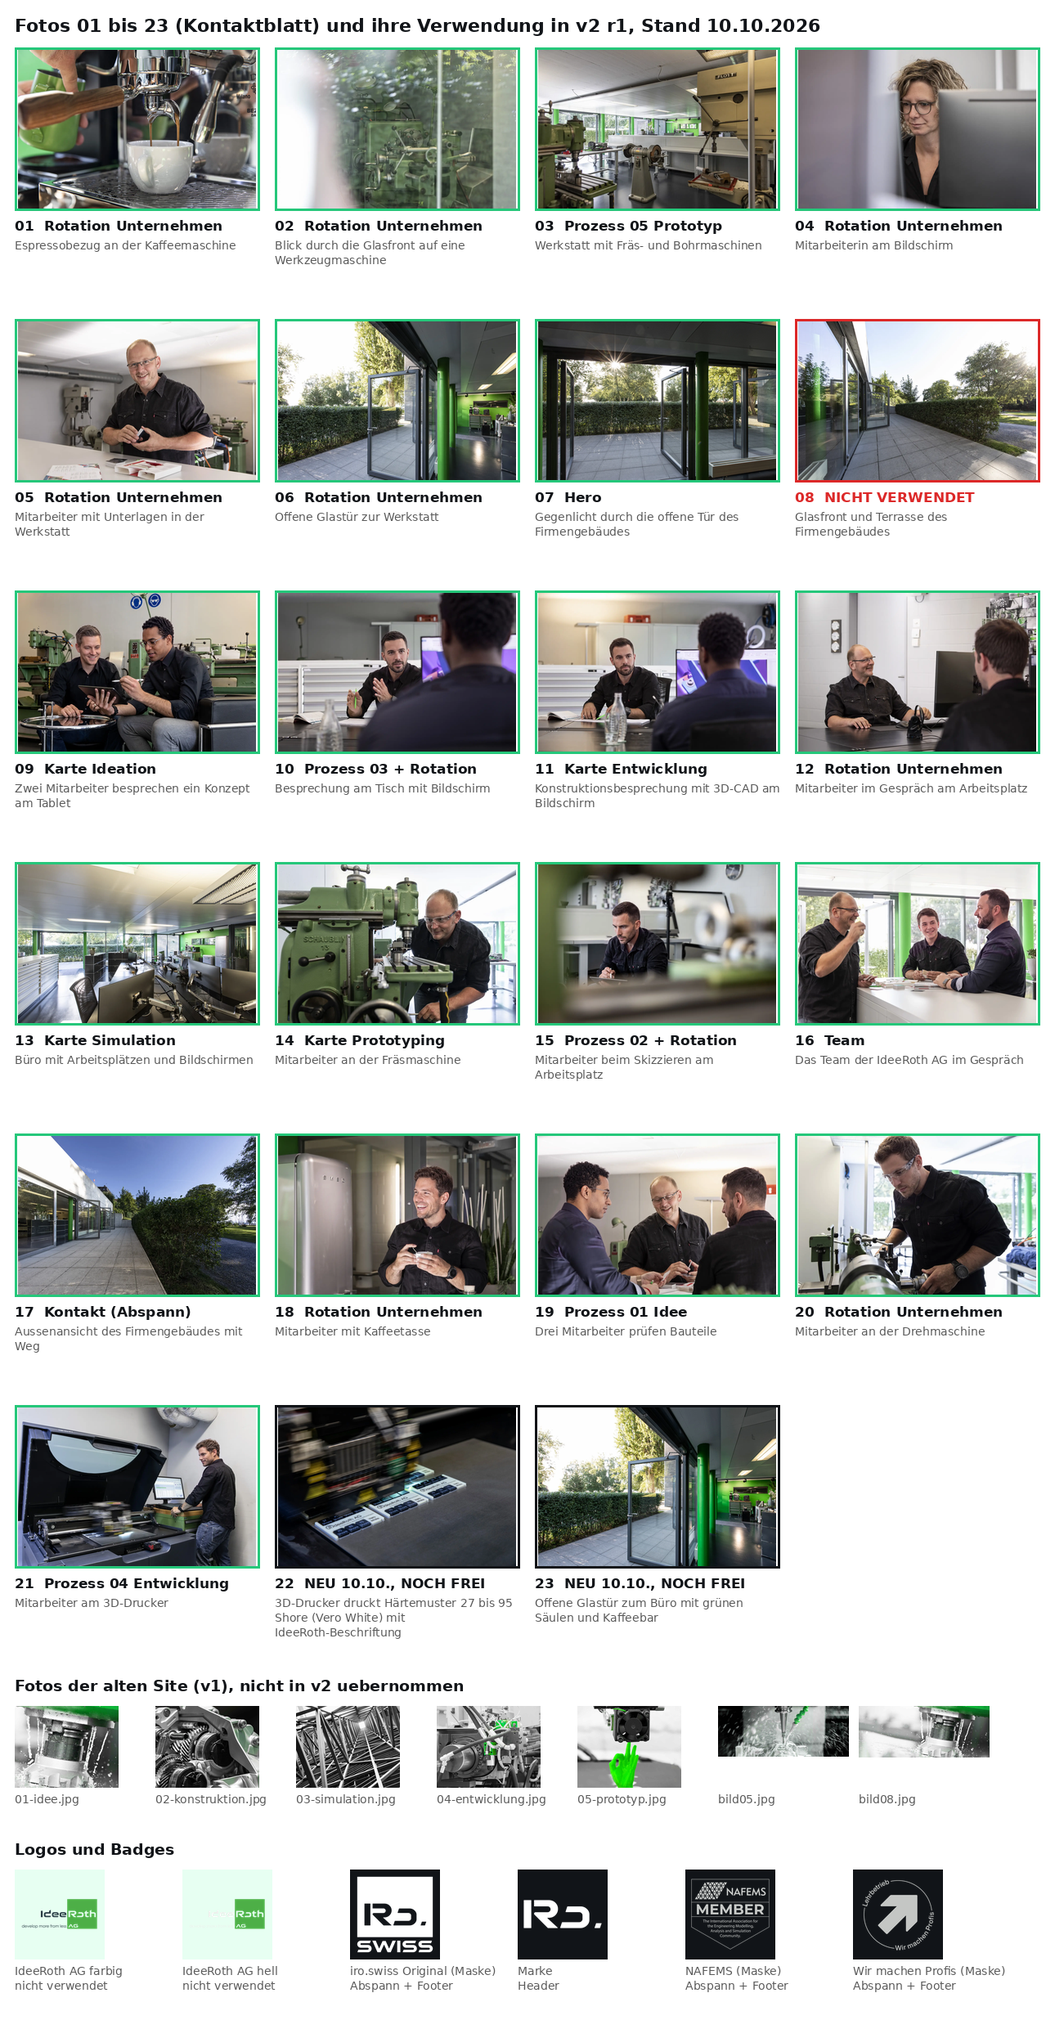
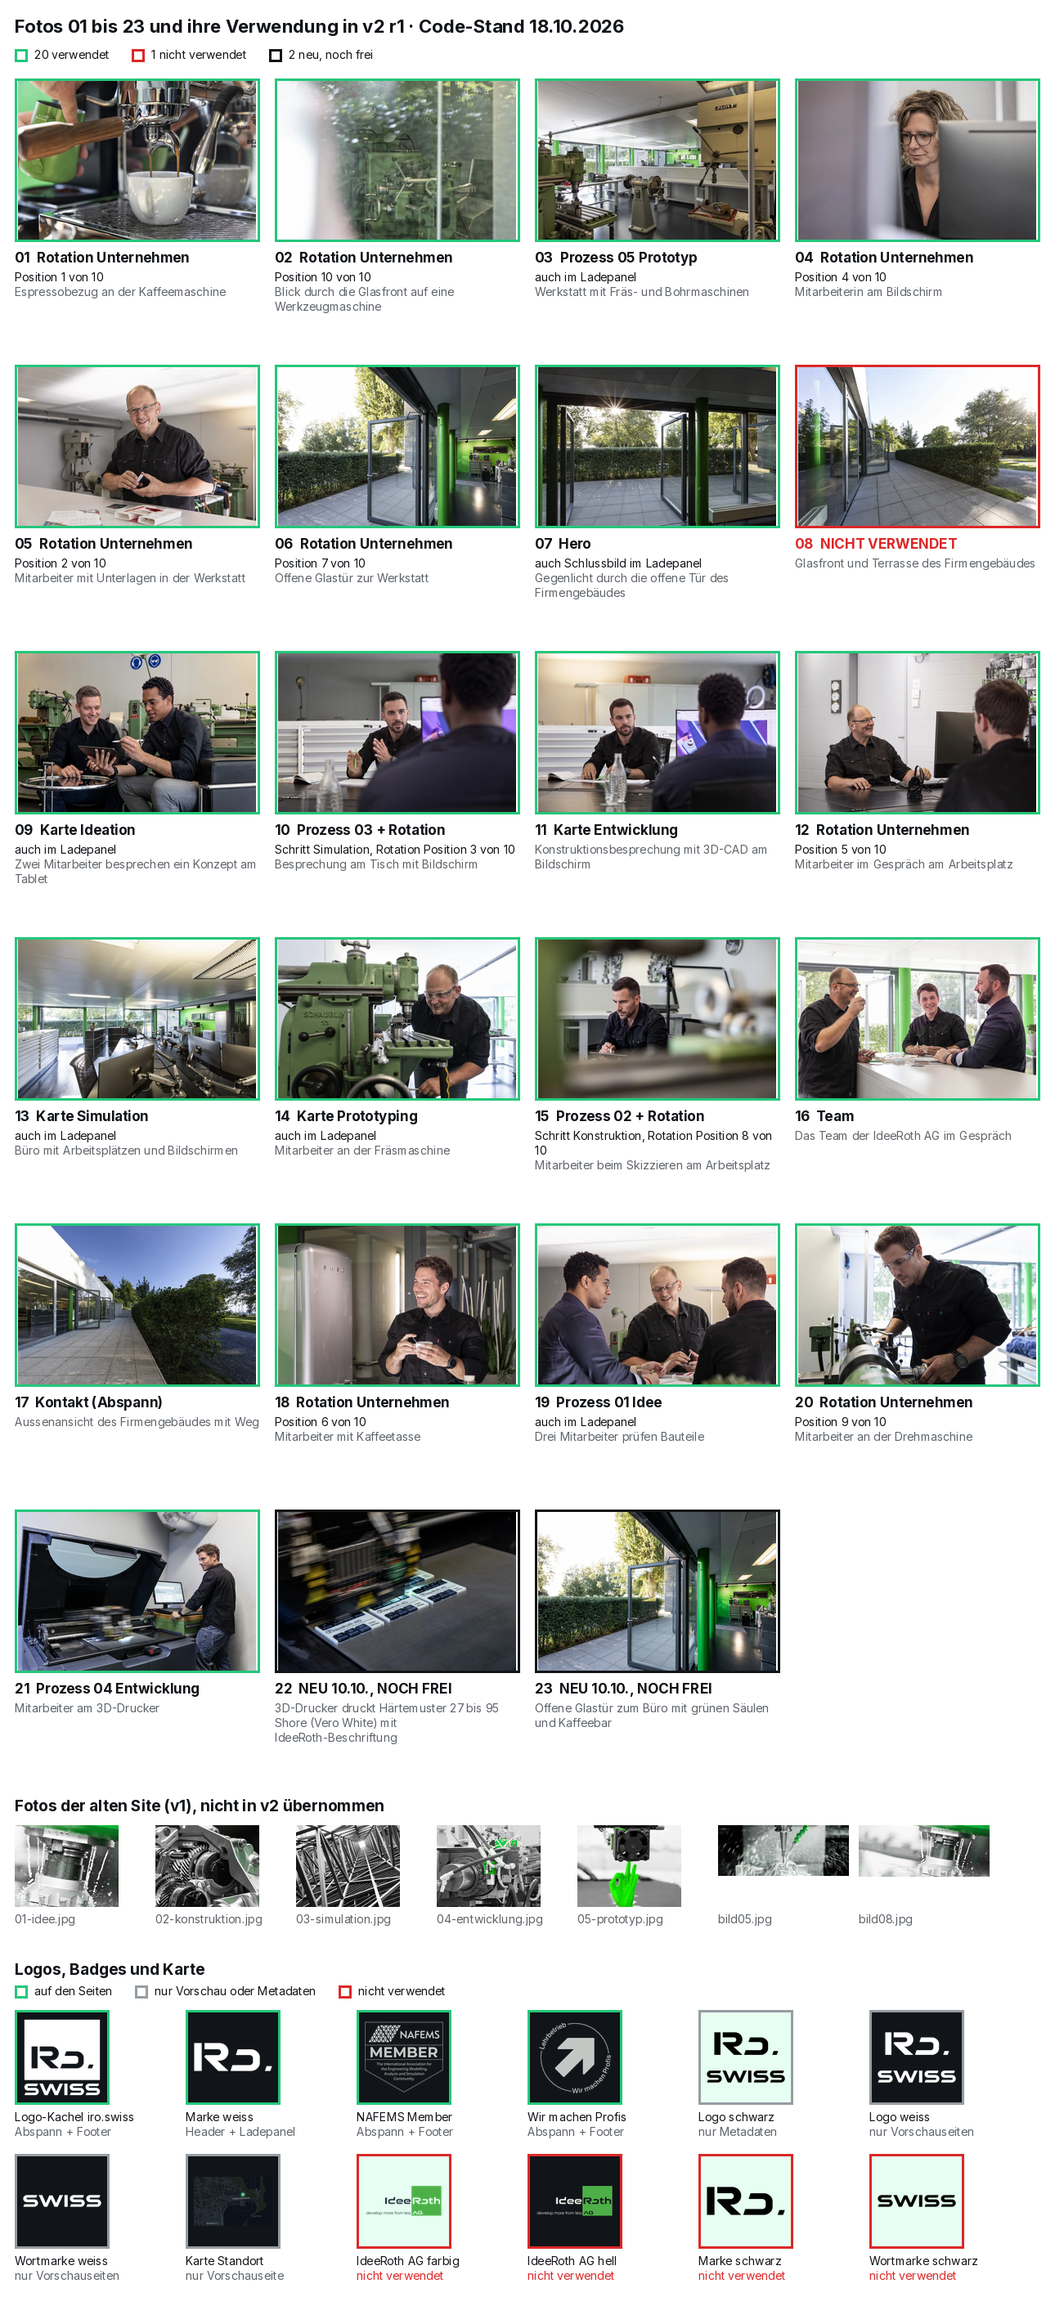
Bilduebersicht liest die Verwendung aus r1/index.html, Blatt neu erzeugt
- bilduebersicht.py: Rollen der Fotos (Hero, Ladepanel, Rotation mit Position, Karten, Prozessschritte, Team,
  Kontakt) kommen aus dem Markup statt aus einer festen Liste; das Blatt kann nicht mehr veralten
- Hinweiszeile je Foto (Position in der Rotation, zweite Verwendung im Ladepanel), Legende mit Zaehlung
- Logo-Teil vollstaendig: alle zwoelf uebrigen Bilddateien mit Zustand (auf den Seiten, nur Vorschau oder
  Metadaten, nicht verwendet), gegen Markup und CSS geprueft
- Schrift Inter aus dem Vorlagen-Paket, Ersatz DejaVu
- bilduebersicht.png neu (Code-Stand 18.10.2026): 20 verwendet, 08 nicht verwendet, 22 und 23 noch frei

Claude-Session: https://claude.ai/code/session_01SNQpCPUPKnTCeqsKMER1Gk

diff --git a/_handover/tools/bilduebersicht.py b/_handover/tools/bilduebersicht.py
@@ -1,101 +1,238 @@
-# Erzeugt die Bilduebersicht (Kontaktblatt) aller Fotos des v2-Fundus mit Verwendung in r1, plus v1-Fotos und Logos.
-import os, glob
+# Erzeugt die Bilduebersicht (Kontaktblatt) aller Fotos des v2-Fundus mit ihrer Verwendung in r1, plus v1-Fotos und Logos.
+# Die Verwendung wird aus r1/index.html GELESEN (Hero, Ladepanel, Rotation Unternehmen, Kompetenzkarten, Prozess, Team,
+# Kontakt) und kann darum nicht veralten. Fest hinterlegt sind nur die Beschreibungen der Fotos ohne Alt-Text im Code.
+# Aufruf: python3 _handover/tools/bilduebersicht.py   (schreibt _handover/bilduebersicht.png, gibt die Zuordnung aus)
+import os, re, glob, subprocess, datetime
+from html.parser import HTMLParser
 from PIL import Image, ImageDraw, ImageFont
+
 HERE = os.path.dirname(os.path.abspath(__file__))
 REPO = os.path.abspath(os.path.join(HERE, '..', '..')) + '/'
 V1IMG = os.path.join(HERE, 'v1img', '')   # Fotos der Live-Site v1 (Kopie aus assets/img/services und gallery)
 V2 = REPO + 'r1/assets/img/v2/'
-PHOTOS = [
-  ('01', 'Rotation Unternehmen', 'Espressobezug an der Kaffeemaschine', 'used'),
-  ('02', 'Rotation Unternehmen', 'Blick durch die Glasfront auf eine Werkzeugmaschine', 'used'),
-  ('03', 'Prozess 05 Prototyp', 'Werkstatt mit Fräs- und Bohrmaschinen', 'used'),
-  ('04', 'Rotation Unternehmen', 'Mitarbeiterin am Bildschirm', 'used'),
-  ('05', 'Rotation Unternehmen', 'Mitarbeiter mit Unterlagen in der Werkstatt', 'used'),
-  ('06', 'Rotation Unternehmen', 'Offene Glastür zur Werkstatt', 'used'),
-  ('07', 'Hero', 'Gegenlicht durch die offene Tür des Firmengebäudes', 'used'),
-  ('08', 'NICHT VERWENDET', 'Glasfront und Terrasse des Firmengebäudes', 'unused'),
-  ('09', 'Karte Ideation', 'Zwei Mitarbeiter besprechen ein Konzept am Tablet', 'used'),
-  ('10', 'Prozess 03 + Rotation', 'Besprechung am Tisch mit Bildschirm', 'used'),
-  ('11', 'Karte Entwicklung', 'Konstruktionsbesprechung mit 3D-CAD am Bildschirm', 'used'),
-  ('12', 'Rotation Unternehmen', 'Mitarbeiter im Gespräch am Arbeitsplatz', 'used'),
-  ('13', 'Karte Simulation', 'Büro mit Arbeitsplätzen und Bildschirmen', 'used'),
-  ('14', 'Karte Prototyping', 'Mitarbeiter an der Fräsmaschine', 'used'),
-  ('15', 'Prozess 02 + Rotation', 'Mitarbeiter beim Skizzieren am Arbeitsplatz', 'used'),
-  ('16', 'Team', 'Das Team der IdeeRoth AG im Gespräch', 'used'),
-  ('17', 'Kontakt (Abspann)', 'Aussenansicht des Firmengebäudes mit Weg', 'used'),
-  ('18', 'Rotation Unternehmen', 'Mitarbeiter mit Kaffeetasse', 'used'),
-  ('19', 'Prozess 01 Idee', 'Drei Mitarbeiter prüfen Bauteile', 'used'),
-  ('20', 'Rotation Unternehmen', 'Mitarbeiter an der Drehmaschine', 'used'),
-  ('21', 'Prozess 04 Entwicklung', 'Mitarbeiter am 3D-Drucker', 'used'),
-  ('22', 'NEU 10.10., NOCH FREI', '3D-Drucker druckt Härtemuster 27 bis 95 Shore (Vero White) mit IdeeRoth-Beschriftung', 'new'),
-  ('23', 'NEU 10.10., NOCH FREI', 'Offene Glastür zum Büro mit grünen Säulen und Kaffeebar', 'new'),
-]
-V1 = sorted(glob.glob(V1IMG + '*'))
+PAGE = REPO + 'r1/index.html'
+
+# Fotos, die in keiner Seite eingebaut sind: Beschreibung, Zustand (unused = rot, new = schwarz), Beschriftung
+FREE = {
+  '08': ('Glasfront und Terrasse des Firmengebäudes', 'unused', 'NICHT VERWENDET'),
+  '22': ('3D-Drucker druckt Härtemuster 27 bis 95 Shore (Vero White) mit IdeeRoth-Beschriftung', 'new', 'NEU 10.10., NOCH FREI'),
+  '23': ('Offene Glastür zum Büro mit grünen Säulen und Kaffeebar', 'new', 'NEU 10.10., NOCH FREI'),
+}
+# Alle uebrigen Bilddateien unter r1/assets/img: (Datei, Name, Verwendung, Kachelgrund, Zustand). Von Hand gepflegt und am
+# 19.11.2026 gegen Markup und CSS geprueft (Klassen .logo-mark, .logo-tile, .badge--* auf den fuenf Seiten; .logo-lock und
+# .logo-word auf keiner echten Seite). Zustand: used = auf den Seiten, part = nur Vorschau oder Metadaten, unused = nirgends.
+IMG = REPO + 'r1/assets/img/'
 LOGOS = [
-  (REPO + 'r1/assets/img/logo/logo-color.png', 'IdeeRoth AG farbig', 'nicht verwendet', 'light'),
-  (REPO + 'r1/assets/img/logo/logo-light.png', 'IdeeRoth AG hell', 'nicht verwendet', 'light'),
-  (REPO + 'r1/assets/img/logo/tile-white.png', 'iro.swiss Original (Maske)', 'Abspann + Footer', 'dark'),
-  (REPO + 'r1/assets/img/logo/mark-white.png', 'Marke', 'Header', 'dark'),
-  (REPO + 'r1/assets/img/badge-nafems-member.png', 'NAFEMS (Maske)', 'Abspann + Footer', 'dark'),
-  (REPO + 'r1/assets/img/badge-lehrbetrieb.png', 'Wir machen Profis (Maske)', 'Abspann + Footer', 'dark'),
+  (IMG + 'logo/tile-white.png', 'Logo-Kachel iro.swiss', 'Abspann + Footer', 'dark', 'used'),
+  (IMG + 'logo/mark-white.png', 'Marke weiss', 'Header + Ladepanel', 'dark', 'used'),
+  (IMG + 'badge-nafems-member.png', 'NAFEMS Member', 'Abspann + Footer', 'dark', 'used'),
+  (IMG + 'badge-lehrbetrieb.png', 'Wir machen Profis', 'Abspann + Footer', 'dark', 'used'),
+  (IMG + 'logo/lockup-black.png', 'Logo schwarz', 'nur Metadaten', 'light', 'part'),
+  (IMG + 'logo/lockup-white.png', 'Logo weiss', 'nur Vorschauseiten', 'dark', 'part'),
+  (IMG + 'logo/word-white.png', 'Wortmarke weiss', 'nur Vorschauseiten', 'dark', 'part'),
+  (IMG + 'map/standort.webp', 'Karte Standort', 'nur Vorschauseite', 'dark', 'part'),
+  (IMG + 'logo/logo-color.png', 'IdeeRoth AG farbig', 'nicht verwendet', 'light', 'unused'),
+  (IMG + 'logo/logo-light.png', 'IdeeRoth AG hell', 'nicht verwendet', 'dark', 'unused'),
+  (IMG + 'logo/mark-black.png', 'Marke schwarz', 'nicht verwendet', 'light', 'unused'),
+  (IMG + 'logo/word-black.png', 'Wortmarke schwarz', 'nicht verwendet', 'light', 'unused'),
 ]
+
+# ---------------------------------------------------------------- Verwendung aus dem Markup lesen
+# Klasse eines Vorfahren -> Rolle des Fotos (erste passende Zeile gilt)
+ROLES = [('pre__card', 'deck'), ('pre__finale', 'finale'), ('hero__photo', 'hero'), ('about__photo', 'rot'),
+         ('card__drift', 'card'), ('card__mask', 'card'), ('process__photo', 'proc'), ('team__photo', 'team'),
+         ('contact__photo', 'contact')]
+VOID = {'img', 'br', 'meta', 'link', 'input', 'hr', 'source', 'area', 'base', 'col', 'embed', 'param', 'track', 'wbr'}
+
+class Page(HTMLParser):
+    def __init__(self):
+        super().__init__(convert_charrefs=True)
+        self.stack = []            # (tag, klassen) der offenen Elemente
+        self.uses = []             # jedes eingebaute Foto in Reihenfolge des Markups
+        self.n_card = 0; self.card_titles = {}
+        self.n_step = 0; self.step_titles = {}
+        self.grab = None           # (art, index, stapeltiefe) solange ein Titel gesammelt wird
+        self.buf = ''
+    def handle_starttag(self, tag, attrs):
+        a = dict(attrs); cl = (a.get('class') or '').split()
+        if tag == 'img':
+            m = re.search(r'img/v2/(\d\d)(-m)?\.webp', a.get('src') or '')
+            if m:
+                anc = [c for _, cs in self.stack for c in cs]
+                role = next((r for c, r in ROLES if c in anc), 'other')
+                self.uses.append({'num': m.group(1), 'mobile': bool(m.group(2)), 'role': role,
+                                  'alt': (a.get('alt') or '').strip(), 'card': self.n_card - 1})
+        if tag == 'div' and 'card' in cl: self.n_card += 1
+        if tag == 'li' and 'pstep' in cl: self.n_step += 1
+        if tag in VOID: return
+        self.stack.append((tag, cl))
+        if self.grab is None:
+            if tag == 'h3' and 'card__label' in cl:
+                self.grab = ('card', self.n_card - 1, len(self.stack)); self.buf = ''
+            elif (tag == 'span' and not cl and len(self.stack) >= 2 and 'pstep' in self.stack[-2][1]
+                  and (self.n_step - 1) not in self.step_titles):
+                self.grab = ('step', self.n_step - 1, len(self.stack)); self.buf = ''
+    def handle_startendtag(self, tag, attrs):
+        self.handle_starttag(tag, attrs)
+        if tag not in VOID and self.stack: self.stack.pop()
+    def handle_endtag(self, tag):
+        for i in range(len(self.stack) - 1, -1, -1):
+            if self.stack[i][0] == tag:
+                del self.stack[i:]; break
+        if self.grab and len(self.stack) < self.grab[2]:
+            kind, idx, _ = self.grab
+            (self.card_titles if kind == 'card' else self.step_titles)[idx] = ' '.join(self.buf.split())
+            self.grab = None
+    def handle_data(self, data):
+        if self.grab: self.buf += data
+
+def read_usage():
+    p = Page(); p.feed(open(PAGE, encoding='utf-8').read())
+    rot = [u for u in p.uses if u['role'] == 'rot']; proc = [u for u in p.uses if u['role'] == 'proc']
+    deck = [u for u in p.uses if u['role'] == 'deck']
+    use = {}
+    def add(u, entry):
+        d = use.setdefault(u['num'], {'entries': [], 'alt': ''})
+        d['entries'].append(entry)
+        if u['alt'] and not d['alt']: d['alt'] = u['alt']
+    for i, u in enumerate(rot): add(u, ('rot', i + 1, len(rot)))
+    for i, u in enumerate(proc): add(u, ('proc', i + 1, p.step_titles.get(i, '')))
+    for i, u in enumerate(deck): add(u, ('deck', i + 1, len(deck)))
+    for u in p.uses:
+        if u['role'] == 'card': add(u, ('card', p.card_titles.get(u['card'], '')))
+        elif u['role'] in ('hero', 'team', 'contact', 'finale', 'other'): add(u, (u['role'],))
+    return use
+
+def describe(num, use):
+    """-> (Beschriftung, Hinweiszeile, Beschreibung, Zustand)"""
+    if num not in use:
+        desc, state, label = FREE.get(num, ('', 'unused', 'NICHT VERWENDET'))
+        return label, '', desc, state
+    e = use[num]['entries']; kinds = [x[0] for x in e]
+    rot = next((x for x in e if x[0] == 'rot'), None); proc = next((x for x in e if x[0] == 'proc'), None)
+    card = next((x for x in e if x[0] == 'card'), None)
+    parts, notes = [], []
+    if 'hero' in kinds: parts.append('Hero')
+    if card: parts.append(('Karte ' + card[1]).strip())
+    if proc and rot:
+        parts.append('Prozess %02d + Rotation' % proc[1]); notes.append('Schritt %s, Rotation Position %d von %d' % (proc[2], rot[1], rot[2]))
+    elif proc: parts.append(('Prozess %02d %s' % (proc[1], proc[2])).strip())
+    elif rot:
+        parts.append('Rotation Unternehmen'); notes.append('Position %d von %d' % (rot[1], rot[2]))
+    if 'team' in kinds: parts.append('Team')
+    if 'contact' in kinds: parts.append('Kontakt (Abspann)')
+    if 'other' in kinds: parts.append('Verwendet (Stelle prüfen)')
+    if 'finale' in kinds: notes.append('auch Schlussbild im Ladepanel')
+    if 'deck' in kinds: notes.append('auch im Ladepanel' if parts else '')
+    if not parts: parts.append('Ladepanel')
+    desc = use[num]['alt'] or FREE.get(num, ('',))[0]
+    return ' + '.join(parts), ' · '.join(n for n in notes if n), desc, 'used'
+
+# ---------------------------------------------------------------- Zeichnen
 def font(size, bold=False):
-    for p in (['/usr/share/fonts/truetype/dejavu/DejaVuSans-Bold.ttf'] if bold else ['/usr/share/fonts/truetype/dejavu/DejaVuSans.ttf']):
+    inter = REPO + '_handover/powerpoint/out/paket/fonts/' + ('Inter-Bold.ttf' if bold else 'Inter-Regular.ttf')
+    dejavu = '/usr/share/fonts/truetype/dejavu/' + ('DejaVuSans-Bold.ttf' if bold else 'DejaVuSans.ttf')
+    for p in (inter, dejavu):
         if os.path.exists(p): return ImageFont.truetype(p, size)
     return ImageFont.load_default()
-F_T, F_H, F_L, F_D = font(22, True), font(19, True), font(17, True), font(14)
-COLS, TW, TH, GX, GY, M = 4, 300, 200, 18, 44, 18
-W = M * 2 + COLS * TW + (COLS - 1) * GX
-rows = -(-len(PHOTOS) // COLS)
-H_PHOTOS = M + 40 + rows * (TH + 88 + GY)
-H_V1 = 40 + 120 + 40
-H_LOGO = 40 + 120 + 60
-img = Image.new('RGB', (W, H_PHOTOS + H_V1 + H_LOGO), 'white'); d = ImageDraw.Draw(img)
-COLORS = {'used': (37, 199, 122), 'unused': (220, 40, 40), 'new': (17, 20, 24)}
-def wrap(text, f, width):
-    words, lines, cur = text.split(), [], ''
-    for w_ in words:
-        t = (cur + ' ' + w_).strip()
-        if d.textlength(t, font=f) <= width: cur = t
-        else: lines.append(cur); cur = w_
-    if cur: lines.append(cur)
-    return lines
-def fit(im, box):
-    bw, bh = box; w, h = im.size; s = min(bw / w, bh / h)
-    return im.resize((max(1, round(w * s)), max(1, round(h * s))), Image.LANCZOS)
-d.text((M, M), 'Fotos 01 bis 23 (Kontaktblatt) und ihre Verwendung in v2 r1, Stand 10.10.2026', fill=(17, 20, 24), font=F_T)
-y0 = M + 40
-for i, (num, use, desc, state) in enumerate(PHOTOS):
-    r, c = divmod(i, COLS); x = M + c * (TW + GX); y = y0 + r * (TH + 88 + GY)
-    im = Image.open(V2 + f'{num}.webp').convert('RGB'); th = fit(im, (TW - 6, TH - 6))
-    col = COLORS[state]
-    d.rectangle([x, y, x + TW - 1, y + TH - 1], outline=col, width=3)
-    img.paste(th, (x + 3 + (TW - 6 - th.width) // 2, y + 3 + (TH - 6 - th.height) // 2))
-    lab_col = col if state != 'used' else (17, 20, 24)
-    d.text((x, y + TH + 8), f'{num}  {use}', fill=lab_col, font=F_L)
-    yy = y + TH + 34
-    for line in wrap(desc, F_D, TW)[:3]:
-        d.text((x, yy), line, fill=(90, 90, 90), font=F_D); yy += 18
-# v1
-y = H_PHOTOS
-d.text((M, y), 'Fotos der alten Site (v1), nicht in v2 uebernommen', fill=(17, 20, 24), font=F_H); y += 36
-n = max(1, len(V1)); tw = min(160, (W - 2 * M - (n - 1) * 12) // n)
-for i, p in enumerate(V1):
-    x = M + i * (tw + 12)
+
+def code_date():
     try:
-        im = Image.open(p).convert('RGB'); th = fit(im, (tw, 100)); img.paste(th, (x, y))
+        out = subprocess.run(['git', 'log', '-1', '--format=%cd', '--date=format:%d.%m.%Y', '--', 'r1/index.html'],
+                             cwd=REPO, capture_output=True, text=True, timeout=20).stdout.strip()
+        if out: return out
     except Exception: pass
-    d.text((x, y + 106), os.path.basename(p)[:22], fill=(90, 90, 90), font=F_D)
-# logos
-y = H_PHOTOS + H_V1
-d.text((M, y), 'Logos und Badges', fill=(17, 20, 24), font=F_H); y += 36
-for i, (p, name, use, bg) in enumerate(LOGOS):
-    x = M + i * (205)
-    box = Image.new('RGB', (110, 110), (17, 20, 24) if bg == 'dark' else (231, 255, 242))
-    try:
-        im = Image.open(p).convert('RGBA'); th = fit(im, (96, 96))
-        box.paste(th, ((110 - th.width) // 2, (110 - th.height) // 2), th)
-    except Exception: pass
-    img.paste(box, (x, y))
-    d.text((x, y + 116), name[:30], fill=(90, 90, 90), font=F_D); d.text((x, y + 134), use, fill=(90, 90, 90), font=F_D)
-out = REPO + '_handover/bilduebersicht.png'; img.save(out); print(out, img.size)
+    return datetime.date.fromtimestamp(os.path.getmtime(PAGE)).strftime('%d.%m.%Y')
+
+def main():
+    use = read_usage()
+    nums = sorted(os.path.basename(p)[:2] for p in glob.glob(V2 + '[0-9][0-9].webp'))
+    rows_data = [(n,) + describe(n, use) for n in nums]
+    v1 = sorted(glob.glob(V1IMG + '*'))
+
+    F_T, F_H, F_L, F_N, F_D = font(22, True), font(19, True), font(17, True), font(14), font(14)
+    COLS, TW, TH, GX, M = 4, 300, 200, 18, 18
+    TEXT_H, GY = 34 + 5 * 18, 26                      # Beschriftung + bis 2 Hinweiszeilen + bis 3 Beschreibungszeilen
+    W = M * 2 + COLS * TW + (COLS - 1) * GX
+    rows = -(-len(rows_data) // COLS)
+    HEAD = M + 78
+    H_PHOTOS = HEAD + rows * (TH + TEXT_H + GY)
+    LCOLS, LSTEP, LROW = 6, 209, 176                  # Logo-Kacheln: je Zeile, Abstand, Zeilenhoehe
+    H_V1, H_LOGO = 40 + 120 + 40, 62 + -(-len(LOGOS) // LCOLS) * LROW + 10
+    img = Image.new('RGB', (W, H_PHOTOS + H_V1 + H_LOGO), 'white'); d = ImageDraw.Draw(img)
+    INK, GRAY = (17, 20, 24), (95, 100, 106)
+    COLORS = {'used': (37, 199, 122), 'unused': (220, 40, 40), 'new': INK, 'part': (150, 156, 162)}
+
+    def wrap(text, f, width):
+        words, lines, cur = text.split(), [], ''
+        for w_ in words:
+            t = (cur + ' ' + w_).strip()
+            if d.textlength(t, font=f) <= width: cur = t
+            else:
+                if cur: lines.append(cur)
+                cur = w_
+        if cur: lines.append(cur)
+        return lines
+    def fit(im, box):
+        bw, bh = box; w, h = im.size; s = min(bw / w, bh / h)
+        return im.resize((max(1, round(w * s)), max(1, round(h * s))), Image.LANCZOS)
+
+    n_used = sum(1 for r in rows_data if r[4] == 'used')
+    d.text((M, M), 'Fotos %s bis %s und ihre Verwendung in v2 r1 · Code-Stand %s' % (nums[0], nums[-1], code_date()), fill=INK, font=F_T)
+    x = M
+    for state, text in (('used', '%d verwendet' % n_used), ('unused', '%d nicht verwendet' % sum(1 for r in rows_data if r[4] == 'unused')),
+                        ('new', '%d neu, noch frei' % sum(1 for r in rows_data if r[4] == 'new'))):
+        d.rectangle([x, M + 42, x + 15, M + 57], outline=COLORS[state], width=3)
+        d.text((x + 24, M + 40), text, fill=INK, font=F_N); x += 24 + int(d.textlength(text, font=F_N)) + 28
+
+    for i, (num, label, note, desc, state) in enumerate(rows_data):
+        r, c = divmod(i, COLS); x = M + c * (TW + GX); y = HEAD + r * (TH + TEXT_H + GY)
+        im = Image.open(V2 + f'{num}.webp').convert('RGB'); th = fit(im, (TW - 6, TH - 6))
+        col = COLORS[state]
+        d.rectangle([x, y, x + TW - 1, y + TH - 1], outline=col, width=3)
+        img.paste(th, (x + 3 + (TW - 6 - th.width) // 2, y + 3 + (TH - 6 - th.height) // 2))
+        d.text((x, y + TH + 8), f'{num}  {label}', fill=(col if state == 'unused' else INK), font=F_L)
+        yy = y + TH + 34
+        for line in wrap(note, F_N, TW)[:2]:
+            d.text((x, yy), line, fill=INK, font=F_N); yy += 18
+        for line in wrap(desc, F_D, TW)[:3]:
+            d.text((x, yy), line, fill=GRAY, font=F_D); yy += 18
+
+    y = H_PHOTOS
+    d.text((M, y), 'Fotos der alten Site (v1), nicht in v2 übernommen', fill=INK, font=F_H); y += 36
+    n = max(1, len(v1)); tw = min(160, (W - 2 * M - (n - 1) * 12) // n)
+    for i, p in enumerate(v1):
+        x = M + i * (tw + 12)
+        try:
+            im = Image.open(p).convert('RGB'); th = fit(im, (tw, 100)); img.paste(th, (x, y))
+        except Exception: pass
+        d.text((x, y + 106), os.path.basename(p)[:22], fill=GRAY, font=F_D)
+
+    y = H_PHOTOS + H_V1
+    d.text((M, y), 'Logos, Badges und Karte', fill=INK, font=F_H)
+    x = M
+    for state, text in (('used', 'auf den Seiten'), ('part', 'nur Vorschau oder Metadaten'), ('unused', 'nicht verwendet')):
+        d.rectangle([x, y + 32, x + 15, y + 47], outline=COLORS[state], width=3)
+        d.text((x + 24, y + 30), text, fill=INK, font=F_N); x += 24 + int(d.textlength(text, font=F_N)) + 28
+    y += 62
+    for i, (p, name, where, bg, state) in enumerate(LOGOS):
+        r, c = divmod(i, LCOLS); x = M + c * LSTEP; yy = y + r * LROW
+        box = Image.new('RGB', (116, 116), INK if bg == 'dark' else (231, 255, 242))
+        try:
+            im = Image.open(p).convert('RGBA'); th = fit(im, (96, 96))
+            box.paste(th, ((116 - th.width) // 2, (116 - th.height) // 2), th)
+        except Exception: pass
+        img.paste(box, (x, yy))
+        d.rectangle([x, yy, x + 115, yy + 115], outline=COLORS[state], width=3)
+        d.text((x, yy + 122), name[:30], fill=INK, font=F_D)
+        d.text((x, yy + 140), where, fill=(COLORS['unused'] if state == 'unused' else GRAY), font=F_D)
+
+    out = REPO + '_handover/bilduebersicht.png'; img.save(out, optimize=True)
+    for num, label, note, desc, state in rows_data:
+        print('%s  %-28s %-48s %s' % (num, label, note, desc))
+    for p, name, where, bg, state in LOGOS:
+        print('%-28s %-24s %s' % (os.path.relpath(p, IMG), name, where))
+    print(out, img.size)
+
+if __name__ == '__main__':
+    main()
